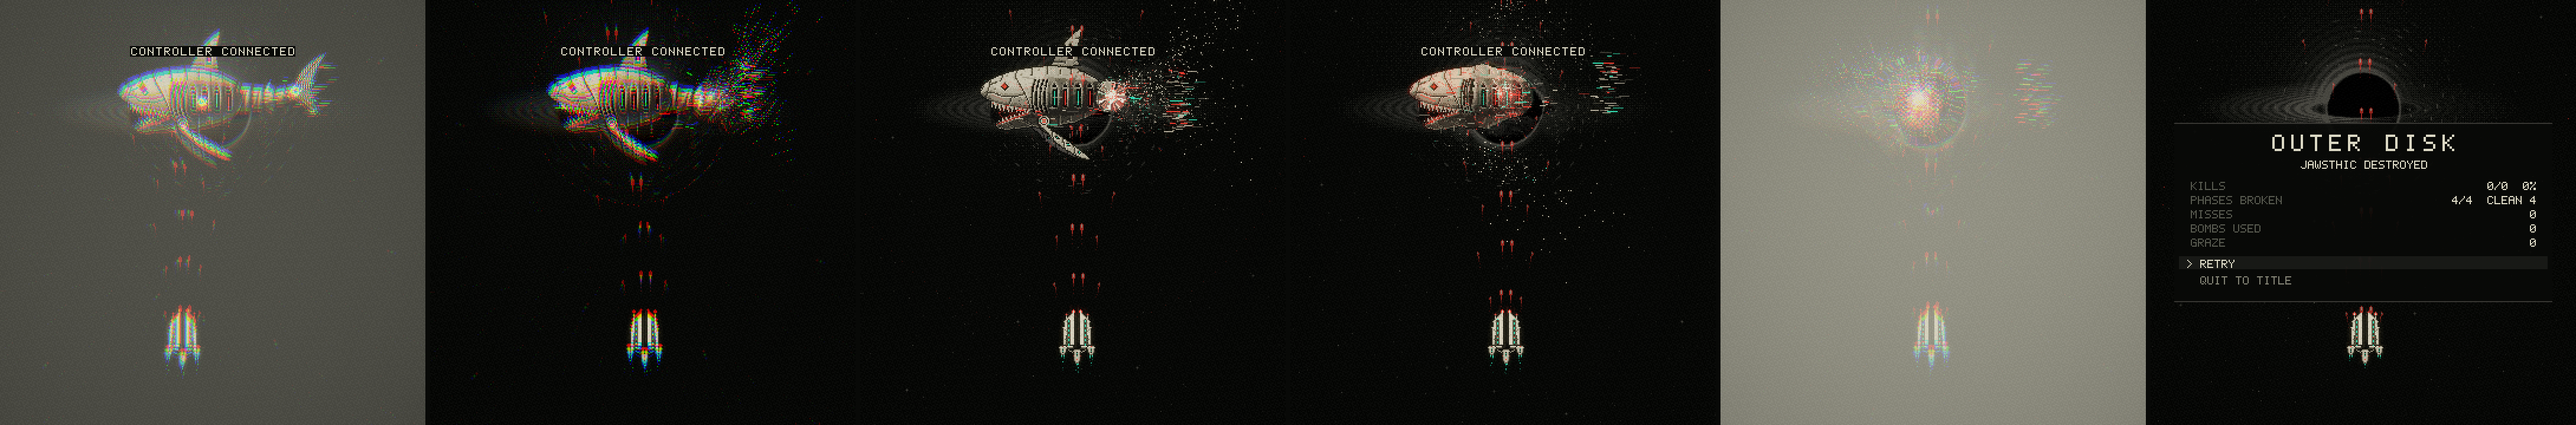
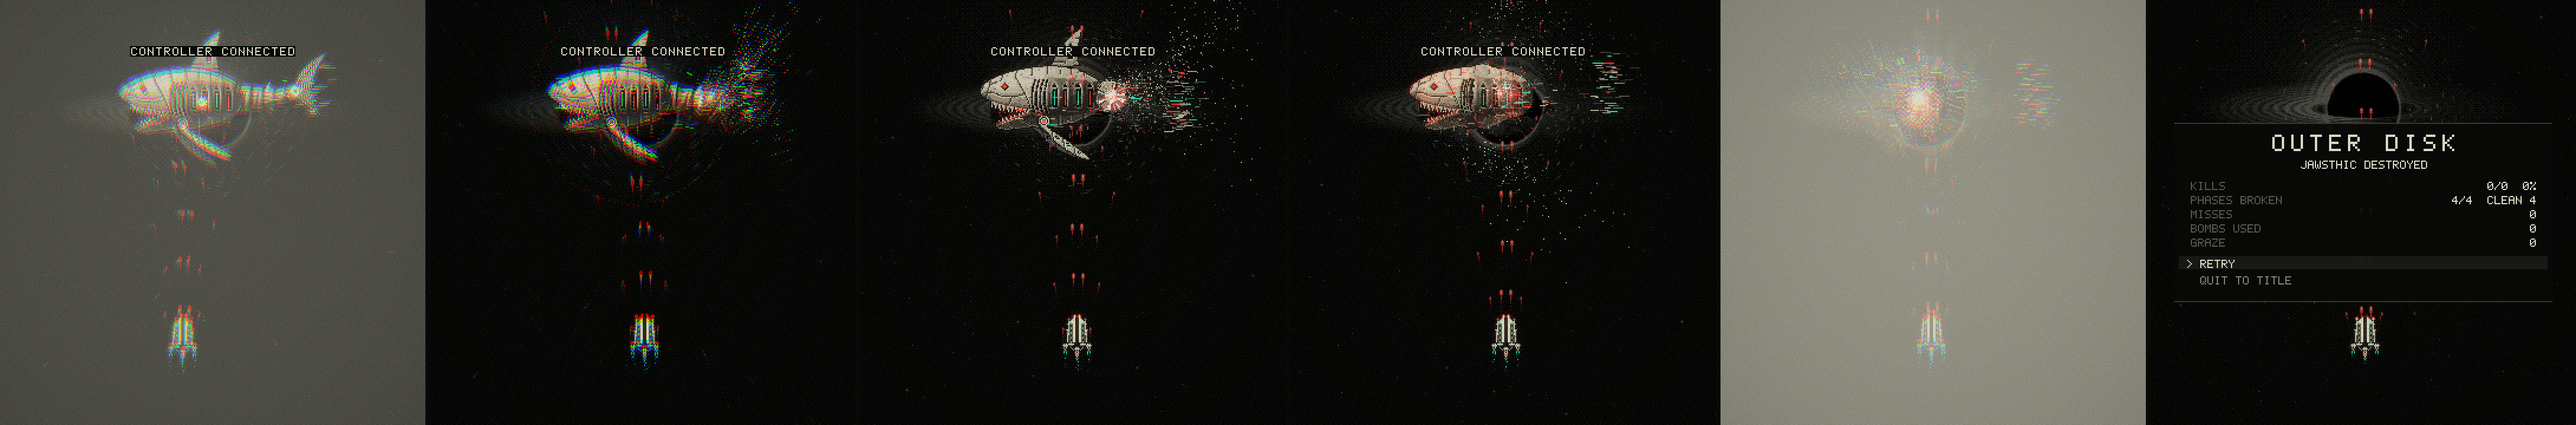
v0.7.3 A fifth smaller: the Pilgrim shrinks 20% with every detail, and its channels hold still in flight
Jason: make the ship about 20% smaller while keeping the detail (its function is
perfect), and stop the channel lines flickering while it shoots in flight form:
flowing down both blades, they fought the banking frames as it moved side to side.
He likes them flowing on the sword, so they still do while the laser fires.

ship.rs's rows are named constants now, and the keyframes are laid out again at
80%: about 25 x 36 px, down from 31 x 44. Both blades keep their 3-pixel
channels, hearts and antennas; the nacelles keep their windows, beacons, nozzles
and flames; the capsule keeps its window, lights and struts. A roll can take a
plain nacelle column when the smaller blade has only one plain column to give.
The channel dashes are static unless the beam fires, and the windows no longer
flicker. Engine trails and lock sparks follow the new nozzles and crossbar.

Tests cover the new size, every light kept at every bank, and lights that don't
change in flight but flow while the laser fires. 216 tests; native and web
builds are warning-free. Every screenshot is retaken.

diff --git a/src/render/ship.rs b/src/render/ship.rs
@@ -19,17 +19,23 @@ pub const FORMS: usize = 5;
 /// Rolls from hard left to hard right.
 const BANKS: usize = 5;
 /// The canvas: odd both ways, centered on the hitbox.
-const SIZE: (i32, i32) = (33, 49);
+const SIZE: (i32, i32) = (27, 41);
 const CX: i32 = SIZE.0 / 2;
 const CY: i32 = SIZE.1 / 2;
 /// Rows from the hitbox: the sword's tip (the beam leaves from here), the shoulder,
 /// and the foot of the blades.
-pub const TIP: i32 = -21;
-const SHOULDER: i32 = -8;
-const FOOT: i32 = 7;
+pub const TIP: i32 = -17;
+const SHOULDER: i32 = -6;
+const FOOT: i32 = 5;
 /// The channel: the point of its arch, and the step where it widens.
-const ARCH: i32 = -15;
+const ARCH: i32 = -12;
 const STEP: i32 = -1;
+/// The crossbar's middle row (sparks fly off it as the blades lock).
+pub const BAR: i32 = FOOT + 2;
+/// The nacelles' rows (top, bottom; the nozzle is under the bottom) and the
+/// capsule's.
+const NACELLE_ROWS: (i32, i32) = (FOOT + 1, FOOT + 6);
+const POD_ROWS: (i32, i32) = (FOOT + 4, FOOT + 12);
 
 /// One frame of the transformation, the left half.
 struct Key {
@@ -50,20 +56,20 @@ struct Key {
     strut: i32,
 }
 
-/// Flight form to laser form. The blades close in 3 px into one broad sword (as
+/// Flight form to laser form. The blades close in 2 px into one broad sword (as
 /// wide as both blades' stone, so the ship doesn't shrink as it focuses), their
 /// channels slide together into one core, the antennas fold away and the nacelles
 /// tuck in beside the sword (in flight they hang under the blades' outer edges).
 const KEYS: [Key; FORMS] = [
-    Key { inner: -3, core: -7, outer: -12, upper: -11, nacelle: -12, corner: -13, antenna: (-9, 4), strut: -7 },
-    Key { inner: -2, core: -5, outer: -11, upper: -10, nacelle: -12, corner: -13, antenna: (-8, 3), strut: -7 },
-    Key { inner: -1, core: -3, outer: -10, upper: -9, nacelle: -12, corner: -12, antenna: (-7, 1), strut: -7 },
-    Key { inner: 0, core: -1, outer: -9, upper: -9, nacelle: -11, corner: -11, antenna: (0, 0), strut: -6 },
-    Key { inner: 0, core: 0, outer: -8, upper: -8, nacelle: -11, corner: -10, antenna: (0, 0), strut: -6 },
+    Key { inner: -2, core: -5, outer: -9, upper: -8, nacelle: -10, corner: -11, antenna: (-7, 3), strut: -5 },
+    Key { inner: -1, core: -3, outer: -8, upper: -7, nacelle: -10, corner: -10, antenna: (-6, 2), strut: -5 },
+    Key { inner: -1, core: -2, outer: -8, upper: -8, nacelle: -9, corner: -9, antenna: (-5, 1), strut: -5 },
+    Key { inner: 0, core: -1, outer: -7, upper: -7, nacelle: -9, corner: -9, antenna: (0, 0), strut: -4 },
+    Key { inner: 0, core: 0, outer: -7, upper: -7, nacelle: -9, corner: -8, antenna: (0, 0), strut: -4 },
 ];
 /// The nacelles' and the capsule's half widths.
-const NACELLE_W: i32 = 3;
-const POD_W: i32 = 3;
+const NACELLE_W: i32 = 2;
+const POD_W: i32 = 2;
 
 #[derive(Clone, Copy, PartialEq, Eq, Debug)]
 enum M {
@@ -185,7 +191,7 @@ fn layout(k: &Key) -> Map {
             map.over(0, y, M::Seam);
         }
     }
-    for (dx, y) in [(2, -6), (3, -5), (2, 2)] {
+    for (dx, y) in [(2, -4), (2, 2)] {
         map.over(k.outer + dx, y, M::Crack);
     }
     // a broad face (the sword's) gets a wider bevel down its edge
@@ -207,35 +213,37 @@ fn layout(k: &Key) -> Map {
         }
     }
     // the nacelles: rounded, a window, a red light on top, a nozzle beneath
-    for y in 8..=14 {
-        let w = if y == 8 || y == 14 { NACELLE_W - 1 } else { NACELLE_W };
+    let (top, bottom) = NACELLE_ROWS;
+    for y in top..=bottom {
+        let w = if y == top || y == bottom { NACELLE_W - 1 } else { NACELLE_W };
         for x in n - w..=n + w {
             map.put(x, y, M::Metal, Piece::Nacelle);
         }
     }
-    for y in 10..=13 {
+    for y in top + 2..bottom {
         map.put(n, y, M::Window, Piece::Nacelle);
     }
-    map.put(n, 8, M::Red, Piece::Nacelle);
+    map.put(n, top, M::Red, Piece::Nacelle);
     for x in n - 1..=n + 1 {
-        map.put(x, 15, M::Nozzle, Piece::Nacelle);
+        map.put(x, bottom + 1, M::Nozzle, Piece::Nacelle);
     }
     // the capsule, on struts
-    for y in 11..=21 {
-        let w = if y == 11 || y == 21 { POD_W - 1 } else { POD_W };
+    let (top, bottom) = POD_ROWS;
+    for y in top..=bottom {
+        let w = if y == top || y == bottom { POD_W - 1 } else { POD_W };
         for x in -w..=w {
             map.put(x, y, M::Metal, Piece::Pod);
         }
     }
-    for y in 13..=16 {
+    for y in top + 2..=top + 4 {
         map.put(0, y, M::Window, Piece::Pod);
     }
-    map.put(0, 19, M::Red, Piece::Pod);
-    map.put(-POD_W, 16, M::Red, Piece::Pod);
+    map.put(0, bottom - 2, M::Red, Piece::Pod);
+    map.put(-POD_W, top + 4, M::Red, Piece::Pod);
     for x in -1..=1 {
-        map.put(x, 22, M::Nozzle, Piece::Pod);
+        map.put(x, bottom + 1, M::Nozzle, Piece::Pod);
     }
-    for (x, y) in line((k.strut, 11), (-POD_W - 1, 13)) {
+    for (x, y) in line((k.strut, top), (-POD_W - 1, top + 2)) {
         if map.at(x, y).0 == M::Empty {
             map.put(x, y, M::Strut, Piece::Strut);
         }
@@ -263,12 +271,17 @@ fn dropped(map: &Map, bank: i8) -> Vec<i32> {
     let precious = |x: i32| (-CY..=CY).any(|y| matches!(map.at(x, y).0, M::Core | M::Wall | M::Groove | M::Window | M::Red | M::Antenna | M::Seam));
     let face: Vec<i32> = (1..=CX).rev().map(|x| x * side).filter(|&x| map.at(x, 0).0 == M::Face).collect();
     let plain: Vec<i32> = face.iter().skip(1).copied().filter(|&x| !precious(x)).collect();
-    let mid = plain.len() / 2;
-    match bank.unsigned_abs() {
-        0 => vec![],
-        1 => plain.get(mid).into_iter().copied().collect(),
-        _ => plain.iter().skip(mid.saturating_sub(1)).take(2).copied().collect(),
+    // beyond the blade, the nacelle's own plain columns (not its rim)
+    let edge = face.first().map_or(CX, |x| x.abs());
+    let outboard: Vec<i32> = (edge + 1..CX).map(|x| x * side).filter(|&x| !precious(x) && (-CY..=CY).any(|y| map.at(x, y).0 == M::Metal) && map.at(x + side, NACELLE_ROWS.0 + 2).0 != M::Empty).collect();
+    let steps = bank.unsigned_abs() as usize;
+    if steps == 0 {
+        return vec![];
     }
+    let mid = plain.len() / 2;
+    let mut pick: Vec<i32> = plain.iter().skip(mid.saturating_sub(steps - 1)).take(steps).copied().collect();
+    pick.extend(outboard.iter().take(steps - pick.len()));
+    pick
 }
 
 /// Where a column of the unrolled ship lands at a roll.
@@ -578,7 +591,7 @@ fn frame_image(form: usize, bank: i8) -> (Image, Vec<Light>, [(i32, i32); 3], [(
     let map = roll(&flat, bank);
     let at = |x: i32, y: i32| (roll_x(x, &drop), y);
     let n = k.nacelle;
-    let nozzles = [at(n, 16), at(-n, 16), at(0, 23)];
+    let nozzles = [at(n, NACELLE_ROWS.1 + 2), at(-n, NACELLE_ROWS.1 + 2), at(0, POD_ROWS.1 + 2)];
     let tips = [at(k.inner, TIP), at(-k.inner, TIP)];
     let (ax, ah) = k.antenna;
     let gun = if ah > 0 { (ax, top_at(k, ax) - ah) } else { (k.upper + 1, k.corner - 1) };
@@ -647,13 +660,6 @@ pub struct Pose {
     pub frame: u64,
 }
 
-/// A cheap per-frame flicker in 0..1 (cosmetic, from the frame number).
-fn flicker(frame: u64, salt: u64) -> f32 {
-    let mut z = frame.wrapping_mul(0x9E37_79B9_7F4A_7C15) ^ salt.wrapping_mul(0xBF58_476D_1CE4_E5B9);
-    z ^= z >> 29;
-    (z % 1000) as f32 / 1000.0
-}
-
 /// How a light looks this frame, if it's on.
 fn light_on(l: &Light, pose: &Pose) -> Option<(Color, f32)> {
     let f = pose.frame;
@@ -666,10 +672,10 @@ fn light_on(l: &Light, pose: &Pose) -> Option<(Color, f32)> {
                     return Some((TEAL_HOT, 1.0));
                 }
             }
-            // dashes flowing up the channel: slowly at rest, fast while it fires
-            let (every, k) = if pose.beaming { (1, 1.0) } else if pose.fire_t > 0 { (3, 1.0) } else { (8, 0.8) };
-            let phase = (f / every) as i32;
-            ((l.dy + phase).rem_euclid(4) < 2).then_some((if pose.beaming { TEAL_HOT } else { TEAL }, k))
+            // steady dashes, flowing up the sword only while the laser fires (in
+            // flight, moving dashes down both blades fight the banking frames)
+            let phase = if pose.beaming { f as i32 } else { 0 };
+            ((l.dy + phase).rem_euclid(4) < 2).then_some(if pose.beaming { (TEAL_HOT, 1.0) } else { (TEAL, 0.85) })
         }
         Glow::Heart => {
             let base = if pose.fire_t > 0 { 0.75 } else { 0.4 };
@@ -681,7 +687,7 @@ fn light_on(l: &Light, pose: &Pose) -> Option<(Color, f32)> {
         Glow::Keel => (f % 60 < 48).then_some((SIGNAL, 1.0)),
         // a red double strobe
         Glow::Strobe => (f % 90 < 4 || (8..12).contains(&(f % 90))).then_some((SIGNAL, 1.0)),
-        Glow::Window => Some((TEAL, 0.5 + 0.35 * flicker(f / 3, (l.dx * 31 + l.dy) as u64))),
+        Glow::Window => Some((TEAL, 0.7)),
     }
 }
 
@@ -805,11 +811,12 @@ mod tests {
         let cols: Vec<i32> = (TIP - 4..=CY).flat_map(|y| span(&map, y)).collect();
         let (lo, hi) = (*cols.iter().min().unwrap(), *cols.iter().max().unwrap());
         assert_eq!(lo, -hi, "symmetric about the hitbox");
-        assert!((29..=33).contains(&(hi - lo + 1)), "{} wide with its nacelles", hi - lo + 1);
+        // v0.7.3: 20% smaller than v0.7.1's 31 x 44, with every part kept
+        assert!((24..=26).contains(&(hi - lo + 1)), "{} wide with its nacelles", hi - lo + 1);
         let rows: Vec<i32> = (-CY..=CY).filter(|&y| !span(&map, y).is_empty()).collect();
         let h = rows.last().unwrap() - rows[0] + 1;
-        assert!((42..=48).contains(&h), "{h} tall");
-        assert_eq!(rows.last(), Some(&22), "the capsule's nozzle is the bottom row");
+        assert!((34..=37).contains(&h), "{h} tall");
+        assert_eq!(rows.last(), Some(&(POD_ROWS.1 + 1)), "the capsule's nozzle is the bottom row");
     }
 
     /// Flight form: the hitbox sits in the gap between the blades, level with their
@@ -818,7 +825,8 @@ mod tests {
     #[test]
     fn the_hitbox_sits_between_the_hearts_then_on_the_heart() {
         assert_eq!(mat(0, 0, 0), M::Empty);
-        assert_eq!((mat(0, -7, 0), mat(0, 7, 0)), (M::Red, M::Red));
+        let c = KEYS[0].core;
+        assert_eq!((mat(0, c, 0), mat(0, -c, 0)), (M::Red, M::Red));
         let last = FORMS - 1;
         assert_eq!(mat(last, 0, 0), M::Red);
         assert_ne!(mat(last, 0, TIP), M::Empty);
@@ -835,7 +843,7 @@ mod tests {
         let antenna = |f: usize| (-CY..=CY).flat_map(|y| (-CX..=CX).map(move |x| (x, y))).filter(|&(x, y)| mat(f, x, y) == M::Antenna).count();
         for f in 1..FORMS {
             let (a, b) = (&KEYS[f - 1], &KEYS[f]);
-            assert!(b.inner >= a.inner && b.core > a.core && b.outer > a.outer && b.nacelle >= a.nacelle, "frame {f}");
+            assert!(b.inner >= a.inner && b.core > a.core && b.outer >= a.outer && b.nacelle >= a.nacelle, "frame {f}");
             assert!(gap(f) <= gap(f - 1) && antenna(f) <= antenna(f - 1), "frame {f}");
         }
         assert_eq!(gap(0), (FOOT - TIP + 1) as usize, "flight: split from tip to foot");
@@ -844,7 +852,7 @@ mod tests {
         assert!(KEYS[FORMS - 1].nacelle > KEYS[0].nacelle, "the nacelles tuck in");
         assert!(width(FORMS - 1) < width(0), "the laser form is slimmer");
         let cores = |f: usize| (-CX..=CX).filter(|&x| mat(f, x, -5) == M::Core).collect::<Vec<_>>();
-        assert_eq!(cores(0), vec![-7, 7]);
+        assert_eq!(cores(0), vec![KEYS[0].core, -KEYS[0].core]);
         assert_eq!(cores(FORMS - 1), vec![0], "the channels become one");
     }
 
@@ -893,6 +901,22 @@ mod tests {
                 assert_eq!(reach(&r, -side), reach(&flat, -side));
             }
         }
+    }
+
+    /// In flight the channels' dashes hold still, firing or not (moving dashes down
+    /// both blades fought the banking frames); they flow up the sword only while
+    /// the laser fires. The windows hold steady too.
+    #[test]
+    fn the_lights_only_flow_while_the_laser_fires() {
+        let ship = frame_image(0, 0).1;
+        let shown = |pose: &Pose| ship.iter().map(|l| light_on(l, pose).map(|(c, k)| (c.r, c.g, c.b, k))).collect::<Vec<_>>();
+        for (fire_t, form) in [(0, 0.0), (9, 0.0), (9, 0.6), (0, 1.0)] {
+            let at = |frame: u64| shown(&Pose { fire_t, form, frame, ..Default::default() });
+            let quiet: Vec<_> = (0..8).map(|f| at(f * 7)).collect();
+            assert!(quiet.windows(2).all(|w| w[0].iter().zip(&w[1]).zip(&ship).all(|((a, b), l)| l.glow != Glow::Channel && l.glow != Glow::Window || a == b)), "fire_t {fire_t}, form {form}");
+        }
+        let laser = |frame: u64| shown(&Pose { beaming: true, fire_t: 9, form: 1.0, frame, ..Default::default() });
+        assert_ne!(laser(0), laser(1), "the sword's channel flows while it fires");
     }
 
     #[test]

diff --git a/src/main.rs b/src/main.rs
@@ -579,10 +579,11 @@ fn effects(w: &World, r: &mut Renderer, s: &Settings, audio: &mut Audio, chains:
     let me = (p.x, p.y);
     foe_effects(w, r);
     let flying = matches!(w.life, Life::Alive | Life::Respawning { .. });
-    if flying && w.frame % 2 == 0 {
-        r.parts.trail(p.x, p.y + 23.0, p.thrust() || !w.alive());
-    }
     let ship = r.atlas.r.ship.frame(p.blend(&w.tuning), p.bank);
+    if flying && w.frame % 2 == 0 {
+        let (jx, jy) = ship.nozzles[2];
+        r.parts.trail(p.x + jx as f32, p.y + jy as f32 + 2.0, p.thrust() || !w.alive());
+    }
     if flying && w.frame % 4 == 0 {
         for &(nx, ny) in &ship.nozzles[..2] {
             r.parts.trail(p.x + nx as f32, p.y + ny as f32 + 3.0, false);
@@ -590,7 +591,7 @@ fn effects(w: &World, r: &mut Renderer, s: &Settings, audio: &mut Audio, chains:
     }
     // the blades lock into the laser form: sparks off the crossbar, a glint at the tip
     if flying && p.locked == 1 {
-        r.parts.lock(p.x, p.y + 9.0, p.y + render::ship::TIP as f32);
+        r.parts.lock(p.x, p.y + render::ship::BAR as f32, p.y + render::ship::TIP as f32);
     }
     // a bomb's cancelled bullets become teal shards that fly to you (a sample on a crowded screen)
     if w.cancel_shards {

diff --git a/CHANGELOG.md b/CHANGELOG.md
@@ -3,6 +3,38 @@
 Every version is one build sprint. Newest first. Versions are tagged in git, and
 each tag publishes a GitHub Release with downloads.
 
+## [0.7.3] - 2026-10-12 - A fifth smaller
+
+### Changed
+- **The Pilgrim is 20% smaller** with all its detail kept
+  ([its sheet](docs/screenshots/pilgrim-sheet.png),
+  [in play](docs/screenshots/pilgrim-forms.png)). It's now about 25 × 36 px,
+  down from 31 × 44. Every part is still there:
+  - the two blades, each with its 3-pixel teal channel, red heart and antenna;
+  - the crossbar, and the nacelles with their windows, beacons, nozzles and twin
+    flames;
+  - the capsule, with its window, keel light, strobes and struts.
+
+  The transformation still takes 5 frames to a broad sword, and the hitbox,
+  shots, speeds and beam haven't changed.
+- **The channel lights hold still in flight.** The dashes down both blades used to
+  flow, faster while you fired, and that fought the banking frames as you moved
+  side to side. Now they only flow up the sword while the laser fires. The
+  nacelles' and the capsule's windows no longer flicker either.
+- The engine trails and the lock's sparks come from the smaller ship's nozzles and
+  crossbar.
+
+### Checked
+- **Tests prove:**
+  - the ship is 24-26 px wide and 34-37 px tall;
+  - every frame keeps the hitbox's column and every kind of light at every bank;
+  - the transformation still closes, converges and tucks in frame by frame;
+  - in flight, firing or not and mid-transformation, the channel and window
+    lights don't change from frame to frame;
+  - the channel lights flow only while the laser fires.
+- Every screenshot is retaken. Native and web builds are warning-free, and all
+  216 tests pass.
+
 ## [0.7.2] - 2026-10-12 - Full screen
 
 ### Changed

diff --git a/MEMORY.md b/MEMORY.md
@@ -3,6 +3,21 @@
 Session notes for Claude Code: what shipped, tuning that changed, known issues, what's next.
 Newest first.
 
+## v0.7.3 A fifth smaller - 2026-10-12
+
+**Jason:** "make the ship about 20% smaller while keeping the detail; everything about the
+function is perfect"; the flowing channel dashes while shooting "mess up the animation moving
+left and right", but he likes the flicker on the sword when it closes. Then go to the score
+sprint (he called it "sprint 6"; it's Sprint 7) with S/A/B grades that flare, arcade-like.
+
+**Shipped:** ship.rs rows are constants (TIP -17, SHOULDER -6, FOOT 5, ARCH -12,
+NACELLE_ROWS (6, 11), POD_ROWS (9, 17), `pub BAR`), KEYS rescaled (f0 inner -2 core -5 outer
+-9 nacelle -10 corner -11 antenna (-7,3); f4 inner 0 core 0 outer -7 nacelle -9 corner -8),
+NACELLE_W/POD_W 2, canvas 27x41. `dropped()` takes a plain nacelle column when the face has
+only one. Channel dashes static unless `pose.beaming` (then flow every frame, TEAL_HOT);
+windows a steady 0.7; `flicker()` removed. main.rs trails from `ship.nozzles[2]`, lock sparks
+at `ship::BAR`. Screenshot batch: scratchpad/shots.sh.
+
 ## v0.7.2 Full screen (square playfield, broad laser form) - 2026-10-12
 
 **Jason's feedback on v0.7.1:** "love the ship!!", but the laser form "gets too small, or

diff --git a/SPRINTS.md b/SPRINTS.md
@@ -83,7 +83,7 @@ enemy bullets (big, slow ones below small, fast ones) → HUD.
 - All art is generated in code at startup, like Shinjuku. A debug key exports every sprite sheet as PNG so you can paint over it in Aseprite; a PNG placed back in `art/` replaces the coded version at build time.
 
 ### The Pilgrim
-**The split sword** (v0.7.1, from [your sheet](docs/reference/Split-sword%20starship_%20flight%20to%20laser.png)), about 31 × 44 px, bone white like Stage 1's enemies:
+**The split sword** (v0.7.1, from [your sheet](docs/reference/Split-sword%20starship_%20flight%20to%20laser.png)), about 25 × 36 px (a fifth smaller since v0.7.3), bone white like Stage 1's enemies:
 - **Flight form:** two blades, each with a teal channel and a red heart, an antenna on each bevelled top, a crossbar with an engine nacelle at each end, and a capsule below on struts.
 - **Laser form:** focus closes the blades into one broad sword over the focus blend, nearly as wide as the flight form, so the ship doesn't shrink (v0.7.2). The antennas fold, the nacelles tuck in, the channels merge into one core, and the beam fires from the tip.
 - **Hitbox:** in the gap between the blades' red hearts (on the single heart in the laser form).

diff --git a/README.md b/README.md
@@ -59,7 +59,7 @@ full screen (F11 for a window).
 **v0.7.1, the split sword:** the Pilgrim is redesigned from Jason's sheet: two
 bone-white blades with teal channels, on a crossbar with an engine at each end.
 When you focus, the blades close into one broad sword and the teal beam fires from
-its tip. It flies exactly as before.
+its tip. It flies exactly as before. (v0.7.3 made it a fifth smaller.)
 
 **v0.7, the boss:** JAWSTHIC, a great white carved from moon rock with a gothic
 cathedral for a body, from Jason's concept. Its fin cuts through the black hole's
